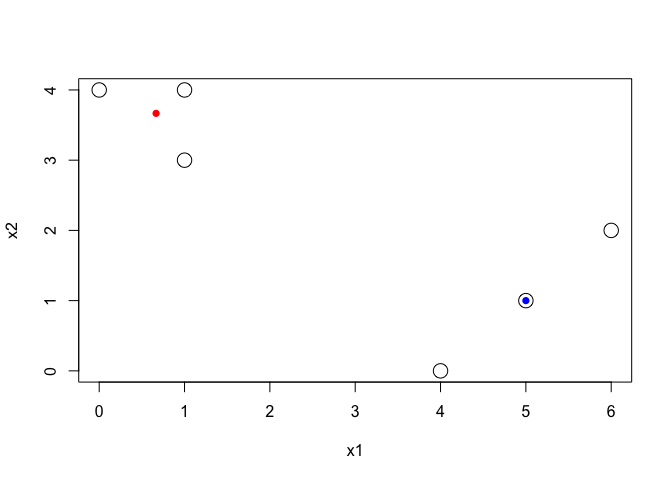
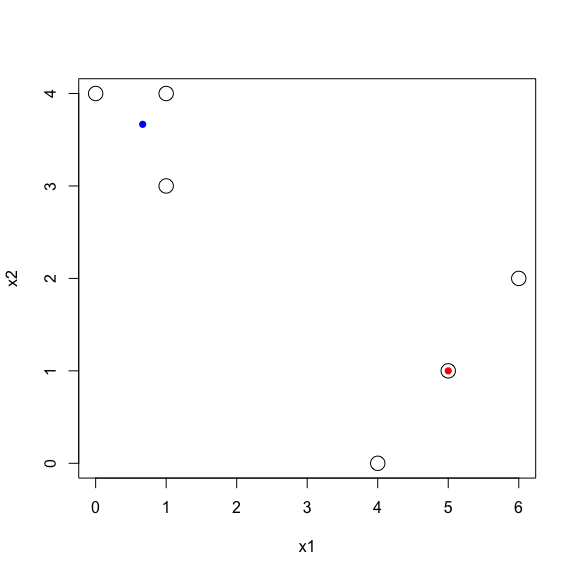
Ex 3: fix plot dimensions

diff --git a/ch10/ch10-ex.md b/ch10/ch10-ex.md
@@ -57,12 +57,12 @@ print(initial_centroids)
 ```
 
     ## [[1]]
-    ##   x1   x2 
-    ## 3.00 2.75 
+    ##  x1  x2 
+    ## 4.0 1.5 
     ## 
     ## [[2]]
     ##  x1  x2 
-    ## 2.5 1.5
+    ## 0.5 4.0
 
 *d:* Assign points to nearest centroid
 
@@ -106,8 +106,6 @@ while(! identical(centroids, old_centroids)) {
 }
 ```
 
-    ## [1] "update_clusters"
-    ## [1] "update_centroids"
     ## [1] "update_clusters"
     ## [1] "update_centroids"
 
